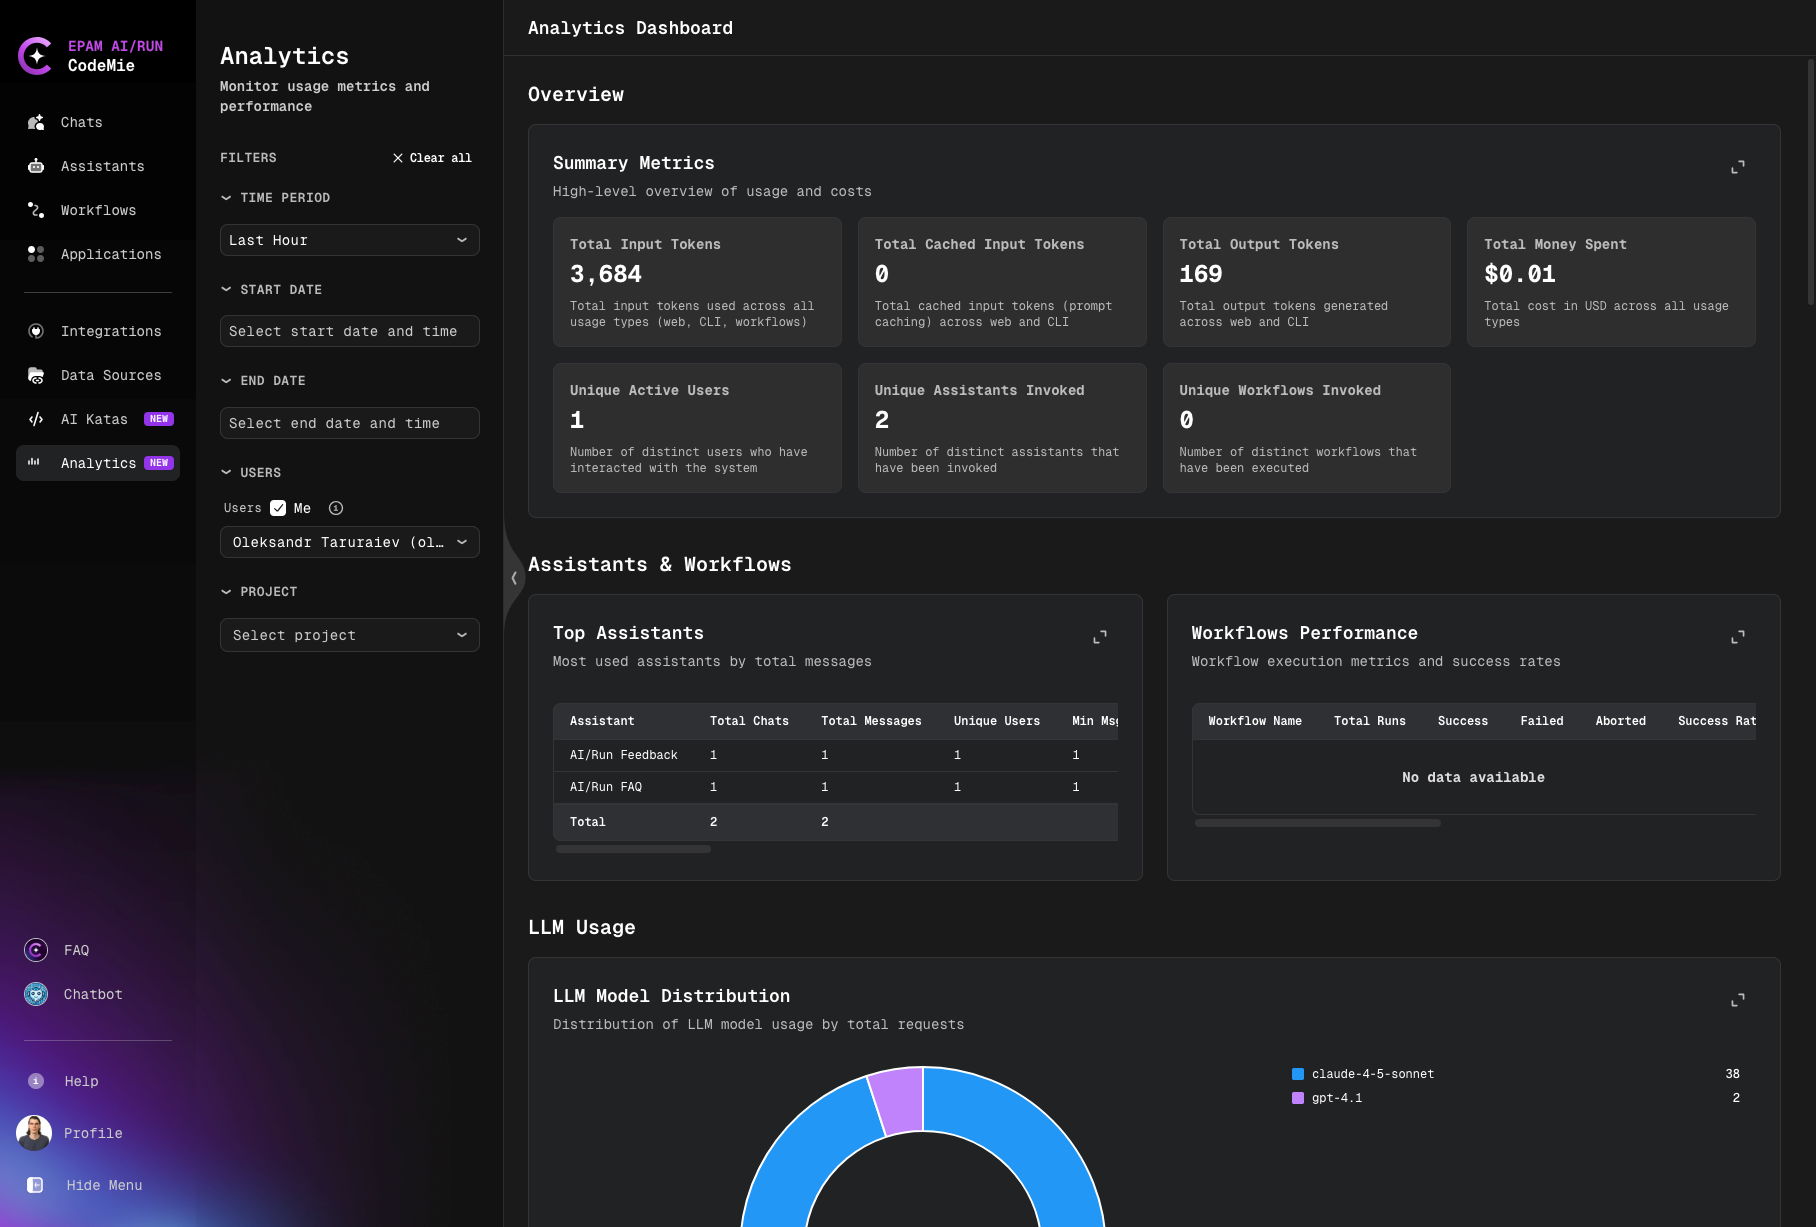
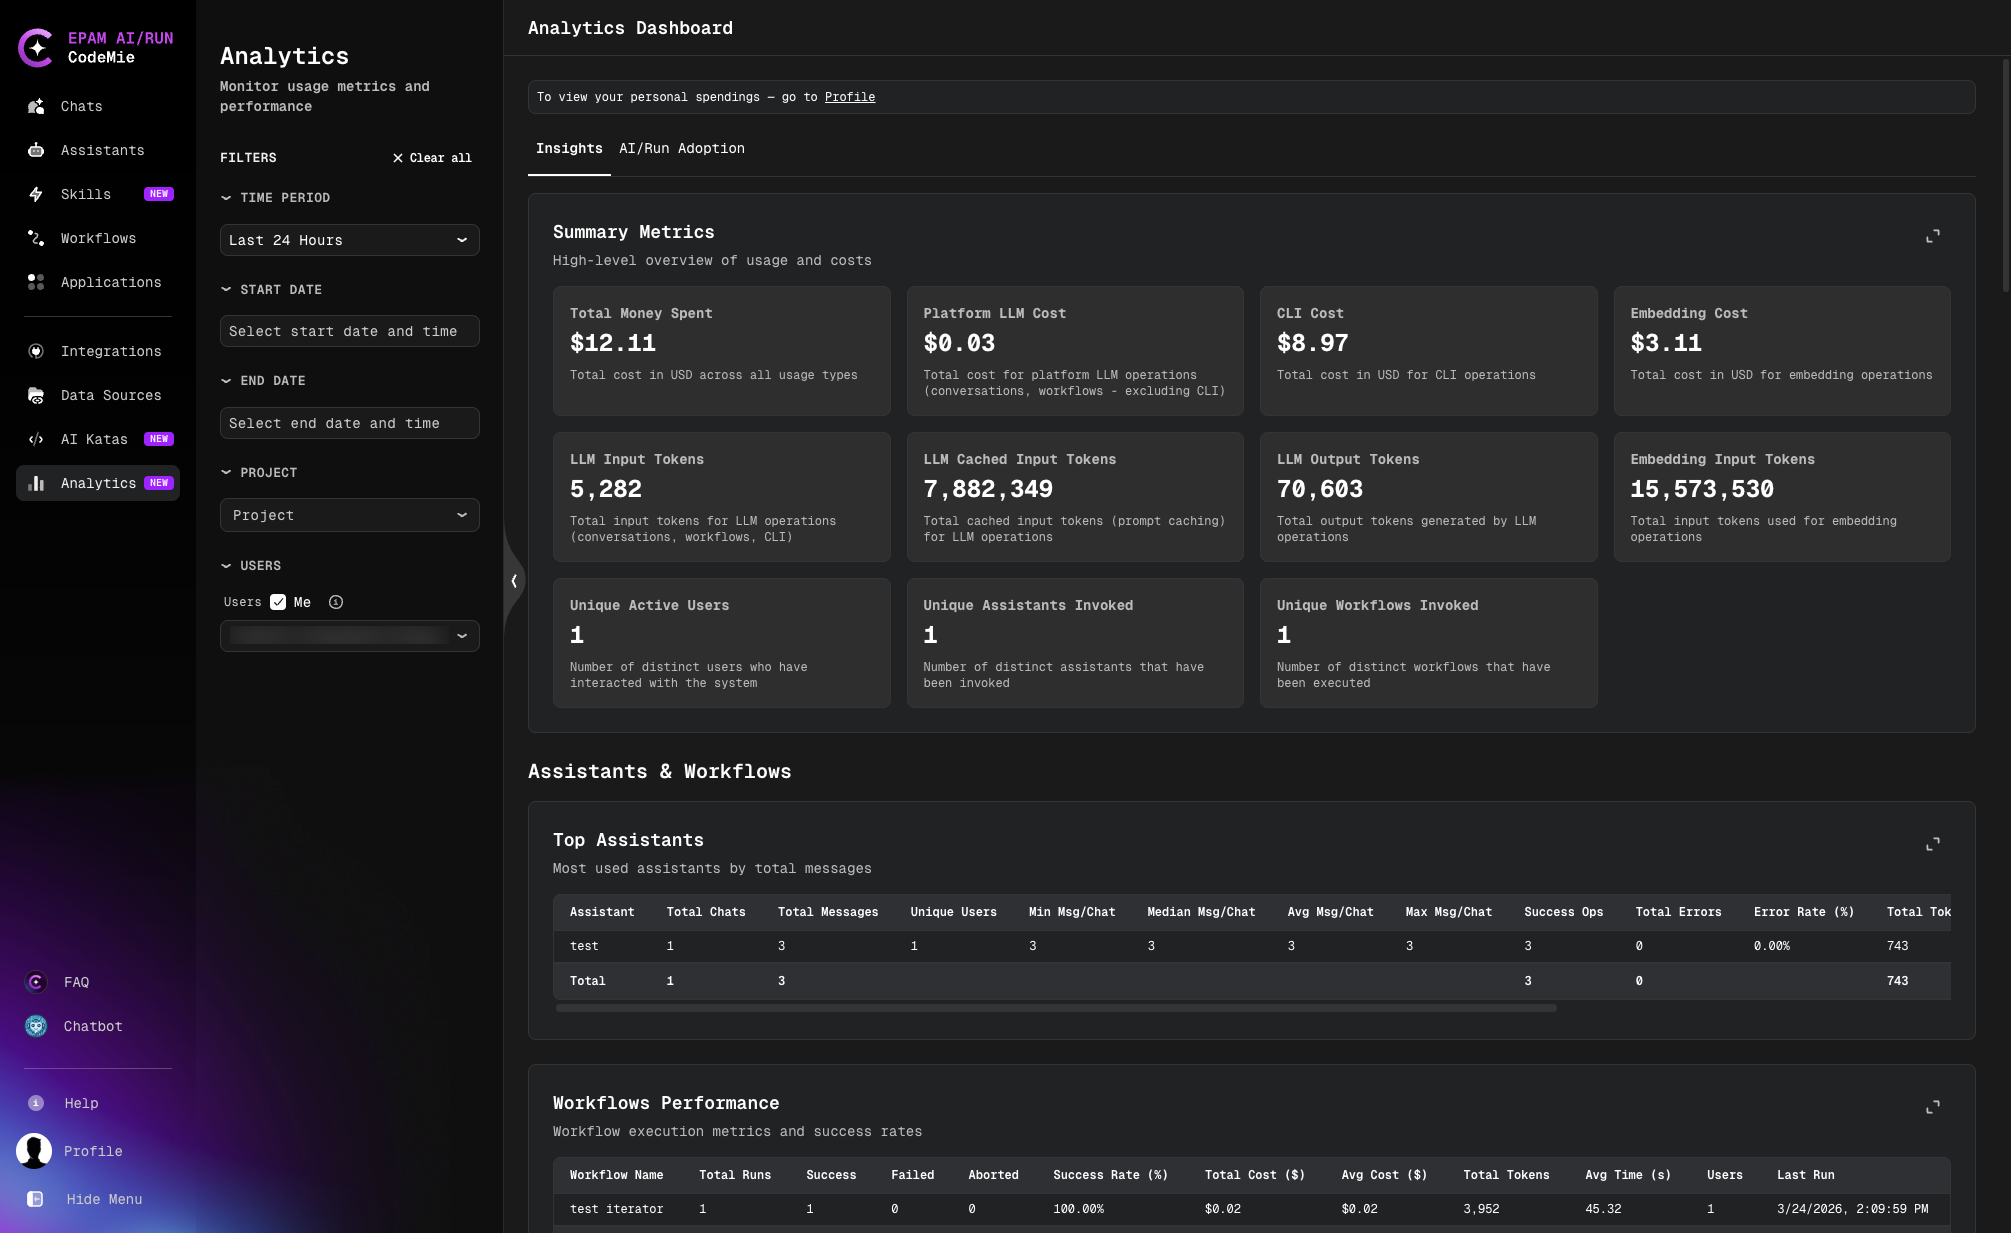
docs(user-guide): add personal spending widget and update analytics dashboard

diff --git a/docs/user-guide/analytics/index.md b/docs/user-guide/analytics/index.md
@@ -11,15 +11,56 @@ pagination_next: null
 
 The Analytics Dashboard provides comprehensive monitoring and management of LLM usage, costs, and activity metrics across the CodeMie platform. Access real-time insights into token consumption, spending patterns, and system utilization with flexible filtering and dual visualization modes.
 
+## Personal Spending Widget
+
+The Personal Spending widget gives you a real-time view of your LLM budget consumption
+without leaving the platform. It is located at the top of the **Settings → Profile** page.
+
+![Personal Spending widget](./images/personal-spending-widget.png)
+
+The widget displays:
+
+| Field                 | Description                                                     |
+| --------------------- | --------------------------------------------------------------- |
+| **Current Spending**  | Your total LLM spend to date in the current budget period (USD) |
+| **Budget Reset Date** | The exact date and time when your budget counter resets         |
+| **Time Until Reset**  | Days, hours, and minutes remaining until the next budget reset  |
+
+A circular progress chart visualizes how much of your total budget has been consumed.
+The chart fills as spending increases toward the configured limit.
+
+:::tip
+If the widget shows no data, your administrator has not configured a budget limit for your
+account via LiteLLM. Contact your administrator to set up budget tracking.
+:::
+
+### Accessing the Widget
+
+1. Click your **profile icon** or **Settings** in the bottom-left navigation.
+2. Select **Profile** from the settings menu.
+3. The **Your personal spending** section appears at the top of the page.
+
 ## Accessing the Analytics Dashboard
 
 To access the Analytics Dashboard:
 
-1. Click on the **Analytics** icon in the left sidebar navigation
+1. Click on the **Analytics** icon in the left sidebar navigation.
 
 ![Analytics Dashboard Overview](./images/analytics-dashboard-overview.png)
 
-The Analytics Dashboard will open, displaying comprehensive monitoring and management tools for LLM usage, costs, and activity metrics.
+The dashboard opens on the **Insights** tab and displays:
+
+- **Summary Metrics** — key cost and usage figures: total money spent, platform LLM cost,
+  ELI cost, re-ranking cost, token counts (input, cached input, output, re-ranking), unique
+  active users, unique assistants invoked, and unique workflows invoked.
+- **Assistants & Workflows** — top assistants by total messages and workflows performance
+  table with execution metrics and success rates.
+
+:::tip
+To view your personal spending against your budget limit, go to
+[**Settings → Profile**](#personal-spending-widget).
+A shortcut link is also available at the top of the Analytics Dashboard.
+:::
 
 ## Access Permissions and Data Visibility
 

diff --git a/faq/how-do-i-check-my-current-llm-spending-and-remaining-budget.md b/faq/how-do-i-check-my-current-llm-spending-and-remaining-budget.md
@@ -1,0 +1,13 @@
+# How do I check my current LLM spending and remaining budget?
+
+Open **Settings → Profile**. The **Your personal spending** section at the top of the page
+shows your current spend in USD, the date when your budget resets, and the time remaining
+until the reset. A circular progress chart displays how much of your total budget has been
+used.
+
+If the widget is not visible, your administrator has not configured a budget limit for your
+account. Contact your administrator to enable budget tracking via LiteLLM.
+
+## Sources
+
+- [Personal Spending Widget](https://docs.codemie.ai/user-guide/analytics/#personal-spending-widget)
